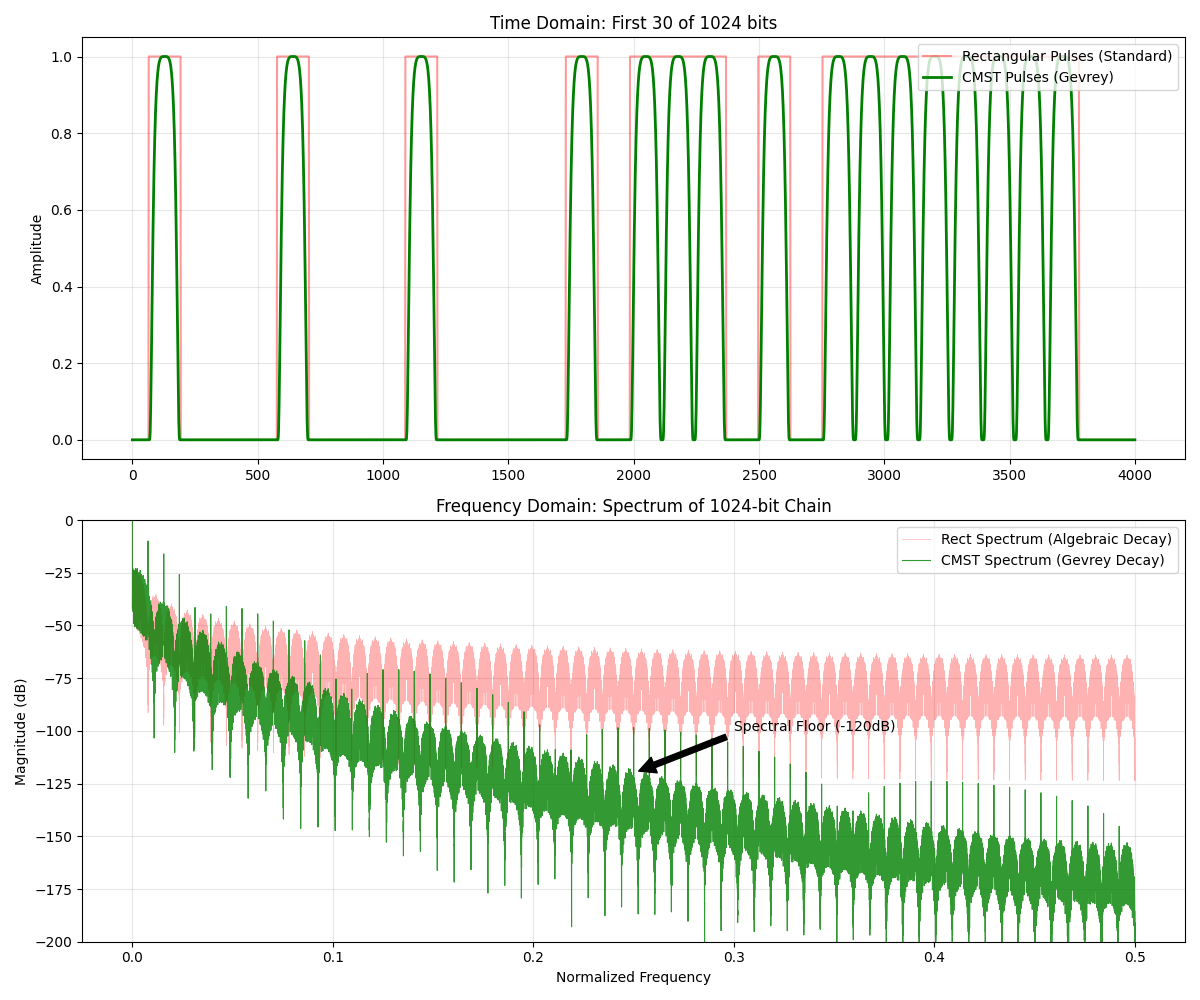
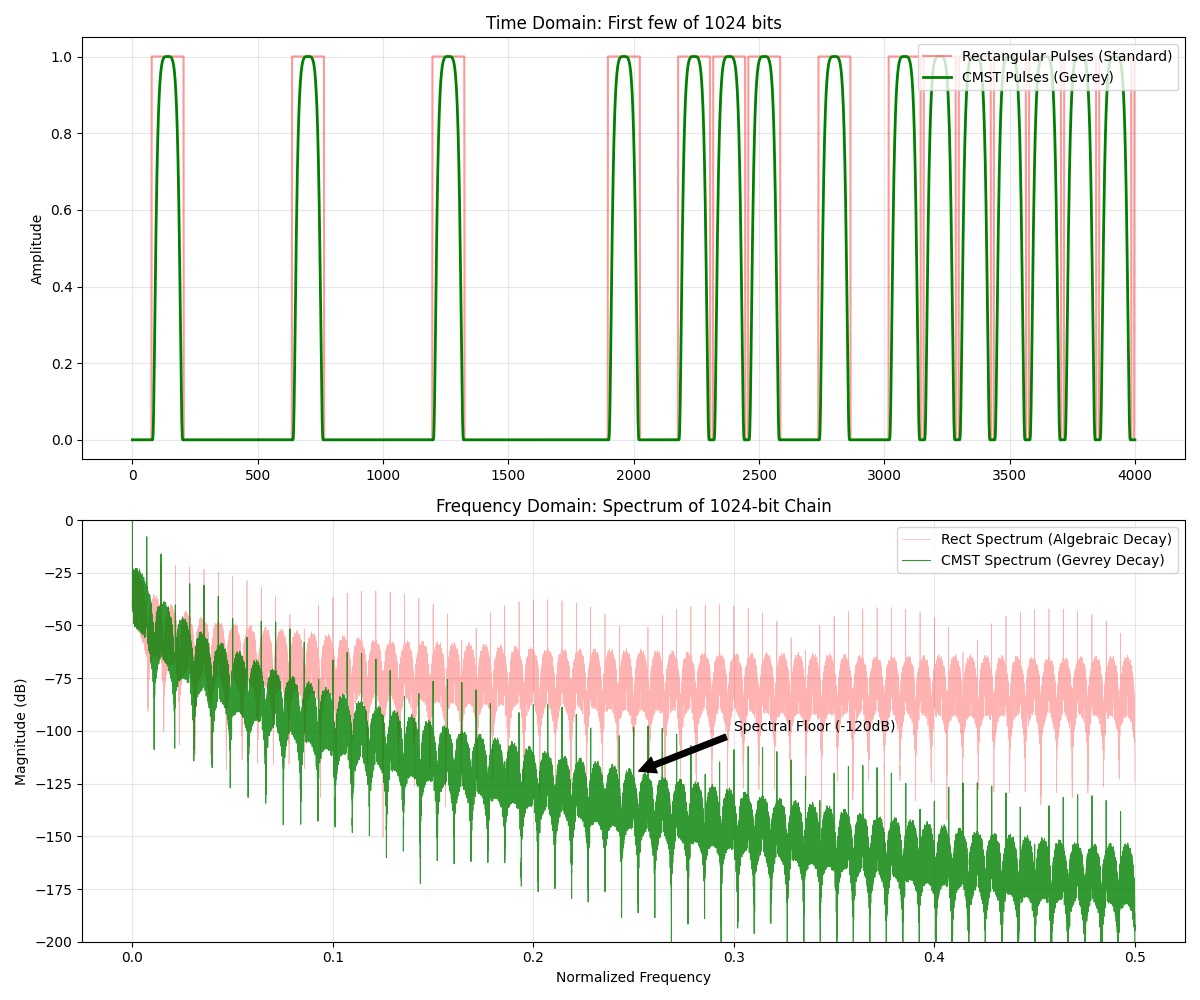
Added gap to signal

diff --git a/examples/16_cmst_as_pulse.py b/examples/16_cmst_as_pulse.py
@@ -22,10 +22,13 @@ def generate_pulse_demo():
     np.random.seed(42)
     N_bits = 1024  # Increased for better spectral resolution
     bits = np.random.randint(0, 2, N_bits)
-    samples_per_symbol = 128
+    
+    pulse_width = 128
+    gap = 12            
+    samples_per_symbol = pulse_width + gap
     
     # Define the Shapes
-    t = np.linspace(-1, 1, samples_per_symbol)
+    t = np.linspace(-1, 1, pulse_width)
     
     # Shape A: Rectangular (Standard Digital)
     kernel_rect = np.ones_like(t)
@@ -61,7 +64,7 @@ def generate_pulse_demo():
     zoom_subset = slice(0, 4000) # Show first few bits
     ax1.plot(chain_rect[zoom_subset], 'r', alpha=0.4, label='Rectangular Pulses (Standard)')
     ax1.plot(chain_cmst[zoom_subset], 'g', linewidth=2, label='CMST Pulses (Gevrey)')
-    ax1.set_title(f"Time Domain: First 30 of {N_bits} bits")
+    ax1.set_title(f"Time Domain: First few of {N_bits} bits")
     ax1.set_ylabel("Amplitude")
     ax1.legend(loc="upper right")
     ax1.grid(alpha=0.3)
